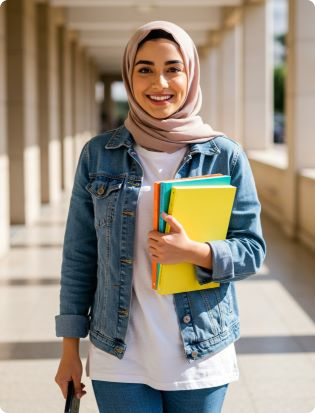
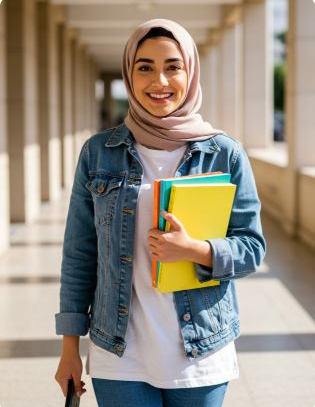
Fix navbar issues, improve dark mode, enhance home UI, and resolve minor bugs

diff --git a/src/components/layout/Navbar.css b/src/components/layout/Navbar.css
@@ -8,7 +8,8 @@
 }
 
 .navbar {
-  padding: 0 25px;
+  padding: 9px 25px;
+  display: flex;
 }
 
 /* ===== BUTTON (Register) ===== */
@@ -67,8 +68,8 @@
 }
 
 .logo {
-  width: 200px;
-  height: 80px;
+  width: 175px;
+  height: 50px;
 }
 
 /* ===== DROPDOWN ===== */
@@ -108,22 +109,32 @@
 
 /* ===== OFFCANVAS ===== */
 .offcanvas {
-  width: 320px !important;
-  backdrop-filter: blur(12px);
+  width: 320px ;
+  backdrop-filter: blur(12px) !important;
   border-left: 1px solid rgba(0, 0, 0, 0.05);
+}
+.offcanvas-header {
+  border-bottom: 1px solid rgba(0, 0, 0, 0.05);
+  display: flex;
+  align-items: center;
+  padding: 15px 20px;
+  justify-content: space-between;
+  gap: 20px;
 }
 
 /* Close Icon */
-.close-icon {
+.btn-close {
   transition: transform 0.4s ease-in-out, opacity 0.3s;
+  cursor: pointer;
+  /* padding-inline: 25px; */
 }
 
-.close-icon:hover {
+.btn-close:hover {
   opacity: 0.7;
 }
 
-.close-icon.rotated {
-  transform: rotate(180deg);
+.btn-close.rotated {
+  transform: rotate(360deg);
 }
 
 /* =====================================================
@@ -132,9 +143,12 @@
 
 /* ----------- Large Tablets & Small Laptops ----------- */
 @media (max-width: 1280px) {
+  .navbar {
+    padding: 5px 8px;
+  }
   .logo {
-    width: 100px;
-    height: 75px;
+    width: 120px;
+    height: 45px;
   }
 
   .nav-link {
@@ -148,13 +162,13 @@
   }
 }
 
-@media (max-width: 992px) {
+/* @media (max-width: 992px) {
   .navbar {
-    padding: 0 15px;
+    padding: 0 12px;
   }
   .logo {
-    width: 130px;
-    height: 70px;
+    width: 60px;
+    height: 50px;
   }
 
   .nav-link {
@@ -166,13 +180,13 @@
     height: 42px;
     font-size: 14px !important;
   }
-}
+} */
 
 /* ----------- Tablets ----------- */
-@media (max-width: 768px) {
+/* @media (max-width: 768px) {
   .logo {
-    width: 160px;
-    height: 65px;
+    width: 80px;
+    height: 50px;
   }
 
   .nav-link {
@@ -188,17 +202,17 @@
     height: 34px;
     padding: 5px 8px;
   }
-}
+} */
 
 /* ----------- Mobile Phones ----------- */
 @media (max-width: 576px) {
   .navbar {
-    padding: 0 10px;
+    padding: 5px 10px;
   }
 
   .logo {
     width: 140px;
-    height: 55px;
+    height: 50px;
   }
 
   .register-btn {
@@ -238,4 +252,35 @@
     height: 40px;
     font-size: 14px !important;
   }
+}
+.dark-theme .nav-link {
+  color: #f5f5f5 !important;
+}
+.dark-theme .nav-link:hover,
+.dark-theme .nav-link.active {
+  color: #6ea8fe !important;
+}
+.dark-theme .dropdown-item {
+  color: #f5f5f5 !important;
+}
+.dark-theme .dropdown-item:hover {
+  background: #2c3e50 !important;
+  color: #6ea8fe !important;
+}
+.dark-theme .register-btn {
+  color: #ffffff;
+  background: linear-gradient(135deg, #1b1f2e, #141825);
+  box-shadow: 0 4px 12px rgba(0, 0, 0, 0.5);
+}
+.dark-theme .register-btn:hover {
+  background: #3a86ff !important;
+  color: #ffffff !important;
+  box-shadow: 0 6px 20px rgba(58, 134, 255, 0.5);
+}
+.dark-theme .mode-switch .btn {
+  background: #141825a8;
+  box-shadow: 0 3px 8px rgba(0, 0, 0, 0.5);
+}
+.dark-theme .mode-switch .btn:hover {
+  box-shadow: 0 5px 12px rgba(0, 0, 0, 0.7);
 }

diff --git a/src/pages/Home.jsx b/src/pages/Home.jsx
@@ -115,6 +115,9 @@ export default function Home() {
   return (
     <>
       <div className="home">
+        <div className="backg">
+
+        
         <section className="hero container d-flex px-4 px-md-5 py-2 mb-5">
           <img
             src={planet}
@@ -124,11 +127,12 @@ export default function Home() {
           />
           <div className="row align-items-center">
             <div className="intro mt-4 mt-lg-5 col-12 col-lg-6 text-center text-lg-start">
-              <p className="bg-babyblue paragraph px-4 py-1 rounded-1 mx-auto mx-lg-0">
+              <SlideIn direction="left" delay={0.2}>
+                <p className="bg-babyblue paragraph px-4 py-1 rounded-1 mx-auto mx-lg-0">
                 {t("home.hero.satisfaction")}
-              </p>
-              <SlideIn direction="left">
-
+                </p>
+              </SlideIn>                
+              <SlideIn direction="left" delay={0.4}>
               <h1 className="mb-4 mt-3 home-h1">
                 {t("home.hero.title.part1")}{" "}
                 <span className="highlight-text">
@@ -136,7 +140,12 @@ export default function Home() {
                 </span>{" "}
                 {t("home.hero.title.part2")}
               </h1>
-              <p className="lead mb-5">{t("home.hero.description")}</p>
+              <SlideIn />
+              <SlideIn direction="left" delay={0.6}>
+                <p className="lead mb-5">{t("home.hero.description")}</p>
+                </SlideIn>
+                <SlideIn direction="left" delay={0.85}>
+                  
               <div className="buttons d-flex flex-column flex-sm-row justify-content-center justify-content-lg-start align-items-center gap-4">
                 <Link to="courses" className="buttons">
                   <button className="px-5 py-2 border-0 rounded-2 text-uppercase">
@@ -164,11 +173,12 @@ export default function Home() {
                 </div>
               </div>
               </SlideIn>
+              </SlideIn>
             </div>
 
             <div className="photo col-12 col-lg-6 mt-5 mt-lg-0 text-center position-relative">
             <SlideIn direction="right">
-              <img src={hero} alt="hero" className="img-fluid w-100" />
+              <img src={hero} alt="hero" className=" img-hero"  />
             </SlideIn>
               <div className="boxes">
                 <div className="first-box d-flex flex-column align-items-center rounded-4 p-3 p-md-4 shadow-sm">
@@ -184,9 +194,9 @@ export default function Home() {
               </div>
             </div>
           </div>
-            
-              
+
         </section>
+        </div>
         <div className="icons-carousel container text-center my-5 pt-3 pb-5 border-bottom border-2">
           <Reveal>
 

diff --git a/src/pages/Home.css b/src/pages/Home.css
@@ -21,6 +21,20 @@
     transform: translateY(-45px);
   }
 }
+.backg {
+  display: flex;
+  align-items: center;
+  justify-content: space-between;
+  /* height: 600px; */
+  background-image: url("../assets/images/download.jpg");
+  background-size: cover;
+  
+  
+}
+.dark-theme .backg {
+  background-image: none;
+}
+  
 
 .bg-babyblue {
   background-color: var(--color-bg-alt) !important;
@@ -145,6 +159,12 @@
   animation-delay: 0.4s;
   width: 0%;
 }
+img-hero {
+  width: 50% ;
+  
+}
+
+
 
 @keyframes showRow {
   0% {
@@ -168,6 +188,12 @@
     width: 100%;
   }
 }
+@media (max-width:1200px  ) {
+  .hero .photo img {
+    width: 130% ;
+    
+  }
+}
 
 @media (max-width: 992px) {
   .hero {
@@ -181,7 +207,7 @@
   }
 
   .hero .photo img {
-    width: 100%;
+    width: 100% ;
     height: auto;
   }
 
@@ -855,7 +881,4 @@ html[dir="rtl"] .hero .photo .boxes .second-box {
   min-height: 400px;
 }
 
-[dir="rtl"] .hero {
-  margin-top: 80px !important;
-  margin-bottom: 100px !important;
-}
+

diff --git a/src/pages/Instructors.jsx b/src/pages/Instructors.jsx
@@ -131,7 +131,7 @@ export default function InstructorsPage() {
       </div>
 
       <div className="container py-5 ">
-        <Reveal>
+        
 
         <div className="d-flex justify-content-between align-items-center mt-1 mb-5">
           <input
@@ -153,7 +153,7 @@ export default function InstructorsPage() {
             <option value="low">{t("instructor.sort.low")}</option>
           </select>
         </div>
-        </Reveal>
+        
 
         <div className="row g-4 mb-5">
           {loading ? (

diff --git a/src/components/layout/Navbar.jsx b/src/components/layout/Navbar.jsx
@@ -109,7 +109,7 @@ export default function Navbar({ onToggle, lang }) {
           <div className="offcanvas-header">
             <Link to="/" className="offcanvas-title">
               <img
-                style={{ width: "250px", height: "120px" }}
+                style={{ width: "200px", height: "70px" }}
                 src="/images/Logo.png"
                 alt="logo"
               />

diff --git a/src/index.css b/src/index.css
@@ -105,6 +105,7 @@ body {
   font-family: "Lexend Deca", "Cairo", sans-serif;
   scroll-behavior: smooth;
   background-color: var(--color-bg);
+  line-height: 1.6;
 }
 
 .lang-ar body {

diff --git a/src/components/effects/SlideIn.jsx b/src/components/effects/SlideIn.jsx
@@ -1,3 +1,4 @@
+// eslint-disable-next-line no-unused-vars
 import { motion } from "framer-motion";
 import { useInView } from "react-intersection-observer";
 
